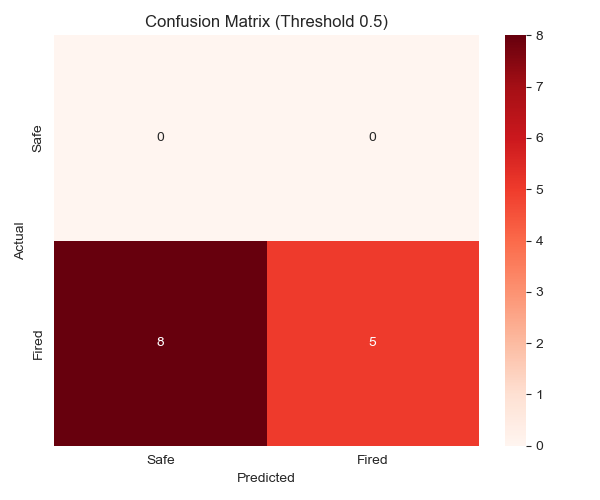
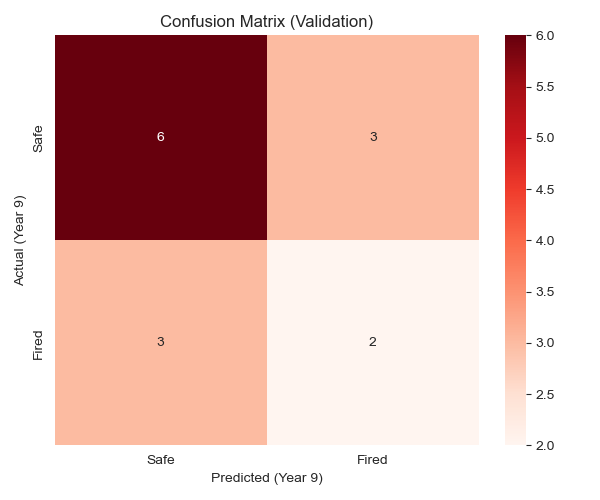
coach changes updates

diff --git a/coacheChangings.py b/coacheChangings.py
@@ -36,7 +36,12 @@ model_df = coaches_df.drop_duplicates(subset=['tmID', 'year'], keep='last').copy
 model_df.sort_values(['tmID', 'year'], inplace=True)
 
 model_df['next_coachID'] = model_df.groupby('tmID')['coachID'].shift(-1)
-model_df['coach_change'] = (model_df['coachID'] != model_df['next_coachID']).astype(int)
+
+model_df['coach_change'] = np.where(
+    model_df['next_coachID'].isna(),
+    np.nan,
+    (model_df['coachID'] != model_df['next_coachID']).astype(float)
+)
 
 print("Calculating Performance vs Expectation...")
 teams_df['pythag_pct'] = (teams_df['o_pts']**13.91) / (teams_df['o_pts']**13.91 + teams_df['d_pts']**13.91)
@@ -92,7 +97,7 @@ full_coach_history['lifetime_wins'] = full_coach_history.groupby('coachID')['won
 
 model_df = model_df.merge(full_coach_history[['coachID', 'year', 'lifetime_wins']], on=['coachID', 'year'], how='left')
 # =========================================================
-# STEP 3: PREPARE MODEL
+# STEP 3: PREPARE SPLITS
 # =========================================================
 
 features = [
@@ -107,69 +112,66 @@ target = 'coach_change'
 
 model_df = model_df.fillna(0)
 
-latest_season = model_df['year'].max()
+eval_train = model_df[model_df['year'] < 9].copy().dropna(subset=[target])
+eval_test = model_df[model_df['year'] == 9].copy().dropna(subset=[target])
 
-train_df = model_df[model_df['year'] < latest_season].copy()
-train_df = train_df.dropna(subset=[target])
+final_train = model_df[model_df['year'] < 10].copy().dropna(subset=[target])
+final_predict = model_df[model_df['year'] == 10].copy()
 
-test_df = model_df[model_df['year'] == latest_season].copy()
-
-X_train = train_df[features]
-y_train = train_df[target]
-X_test = test_df[features]
-y_test = test_df[target]
-
-print(f"Training Data: {X_train.shape[0]} samples")
-print(f"Test Data: {X_test.shape[0]} samples (Year {int(latest_season)})")
+print(f"Evaluation Train (Year 1-8): {eval_train.shape[0]} samples")
+print(f"Evaluation Test (Year 9): {eval_test.shape[0]} samples")
+print(f"Final Train (Year 1-9): {final_train.shape[0]} samples")
+print(f"Final Prediction (Year 10): {final_predict.shape[0]} samples")
 
 # =========================================================
-# STEP 4: TRAINING 
+# STEP 4: VALIDATION PHASE (YEAR 9)
 # =========================================================
-print("\n Training Random Forest Classifier...")
+print("\n--- PHASE 1: VALIDATION ---")
 
-rf = RandomForestClassifier(n_estimators=500, random_state=42, class_weight='balanced', max_depth=5, min_samples_leaf=3)
-rf.fit(X_train, y_train)
+rf_val = RandomForestClassifier(n_estimators=500, random_state=42, class_weight='balanced', max_depth=5, min_samples_leaf=3)
+rf_val.fit(eval_train[features], eval_train[target])
 
-print("Model trained successfully!")
-
-# =========================================================
-# STEP 5: EVALUATION
-# =========================================================
-y_prob = rf.predict_proba(X_test)[:, 1]
-
+y_eval_prob = rf_val.predict_proba(eval_test[features])[:, 1]
 THRESHOLD = 0.50
-y_pred_custom = (y_prob >= THRESHOLD).astype(int)
+y_eval_pred = (y_eval_prob >= THRESHOLD).astype(int)
 
 print("\n--- Confusion Matrix ---")
 plt.figure(figsize=(6,5))
-
-cm = confusion_matrix(y_test, y_pred_custom, labels=[0,1])
-
+cm = confusion_matrix(eval_test[target], y_eval_pred, labels=[0,1])
 sns.heatmap(cm, annot=True, fmt='d', cmap='Reds', xticklabels=['Safe', 'Fired'], yticklabels=['Safe', 'Fired'])
-plt.ylabel('Actual')
-plt.xlabel('Predicted')
-plt.title(f'Confusion Matrix (Threshold {THRESHOLD})')
+plt.ylabel('Actual (Year 9)')
+plt.xlabel('Predicted (Year 9)')
+plt.title(f'Confusion Matrix (Validation)')
 plt.tight_layout()
 plt.savefig("results/plots/coach_churn_confusion_matrix.png")
-plt.show()
 
-print("--- Classification Report ---")
-print(classification_report(y_test, y_pred_custom,labels=[0,1], target_names=['Safe', 'Fired'], zero_division=0))
+print("--- Classification Report (Validation) ---")
+print(classification_report(eval_test[target], y_eval_pred,labels=[0,1], target_names=['Safe', 'Fired'], zero_division=0))
 
-if len(np.unique(y_test)) > 1:
-    auc = roc_auc_score(y_test, y_prob)
-    print(f"--- AUC-ROC Score ---")
+if len(np.unique(eval_test[target])) > 1:
+    auc = roc_auc_score(eval_test[target], y_eval_prob)
     print(f"AUC-ROC: {auc:.4f}\n")
 else:
     print(f"--- AUC-ROC Score: N/A (Test set contains only one class) ---")
 
+# =========================================================
+# STEP 5: FORECASTING PHASE (YEAR 9)
+# =========================================================
+print("\n--- PHASE 2: Final Forecasting")
+
+rf_final = RandomForestClassifier(n_estimators=500, random_state=42, class_weight='balanced', max_depth=5, min_samples_leaf=3)
+rf_final.fit(final_train[features], final_train[target])
+
+y_final_prob = rf_final.predict_proba(final_predict[features])[:, 1]
+y_final_pred = (y_final_prob >= THRESHOLD).astype(int)
+
 importances = pd.DataFrame({
     'Feature': features,
-    'Importance': rf.feature_importances_
+    'Importance': rf_final.feature_importances_
 }).sort_values(by='Importance', ascending=False)
 
 plt.figure(figsize=(10,6))
-sns.barplot(x='Importance', y='Feature', data=importances, palette='viridis')
+sns.barplot(x='Importance', y='Feature', data=importances, palette='viridis', hue='Feature', legend=False)
 plt.title('Why Do Coaches Get Fired? (Feature Importance)')
 plt.xlabel('Importance')
 plt.ylabel('Feature')
@@ -179,9 +181,10 @@ plt.savefig("results/plots/coach_firing_factors.png")
 # =========================================================
 # STEP 6: SAVE PREDICTIONS
 # =========================================================
-results = test_df[['tmID', 'coachID', 'year', 'win_pct', 'underperformance', 'recent_post_success']].copy()
-results['firing_probability'] = y_prob
-results['predicted_change'] = y_pred_custom
+results = final_predict[['tmID', 'coachID', 'year', 'win_pct', 'underperformance', 'recent_post_success']].copy()
+
+results['firing_probability'] = y_final_prob
+results['predicted_change'] = y_final_pred
 
 hot_seat = results.sort_values('firing_probability', ascending=False)
 
